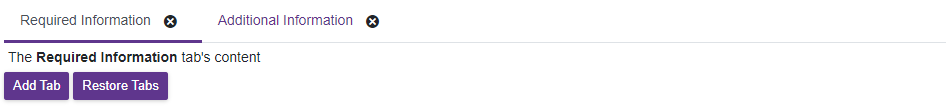
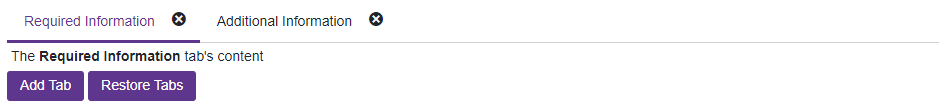
upd

diff --git a/CS/DynamicTabs/Pages/Index.razor.css b/CS/DynamicTabs/Pages/Index.razor.css
@@ -1,0 +1,3 @@
+.remove-padding {
+    padding-right: 0;
+}

diff --git a/README.md b/README.md
@@ -3,7 +3,7 @@
 [![](https://img.shields.io/badge/Open_in_DevExpress_Support_Center-FF7200?style=flat-square&logo=DevExpress&logoColor=white)](https://supportcenter.devexpress.com/ticket/details/T1108973)
 [![](https://img.shields.io/badge/📖_How_to_use_DevExpress_Examples-e9f6fc?style=flat-square)](https://docs.devexpress.com/GeneralInformation/403183)
 <!-- default badges end -->
-# Blazor Tabs - Add Close Tab Buttons
+# Blazor Tabs - Add the Close Tab Button
 
 You can implement a button that closes a tab.
 
